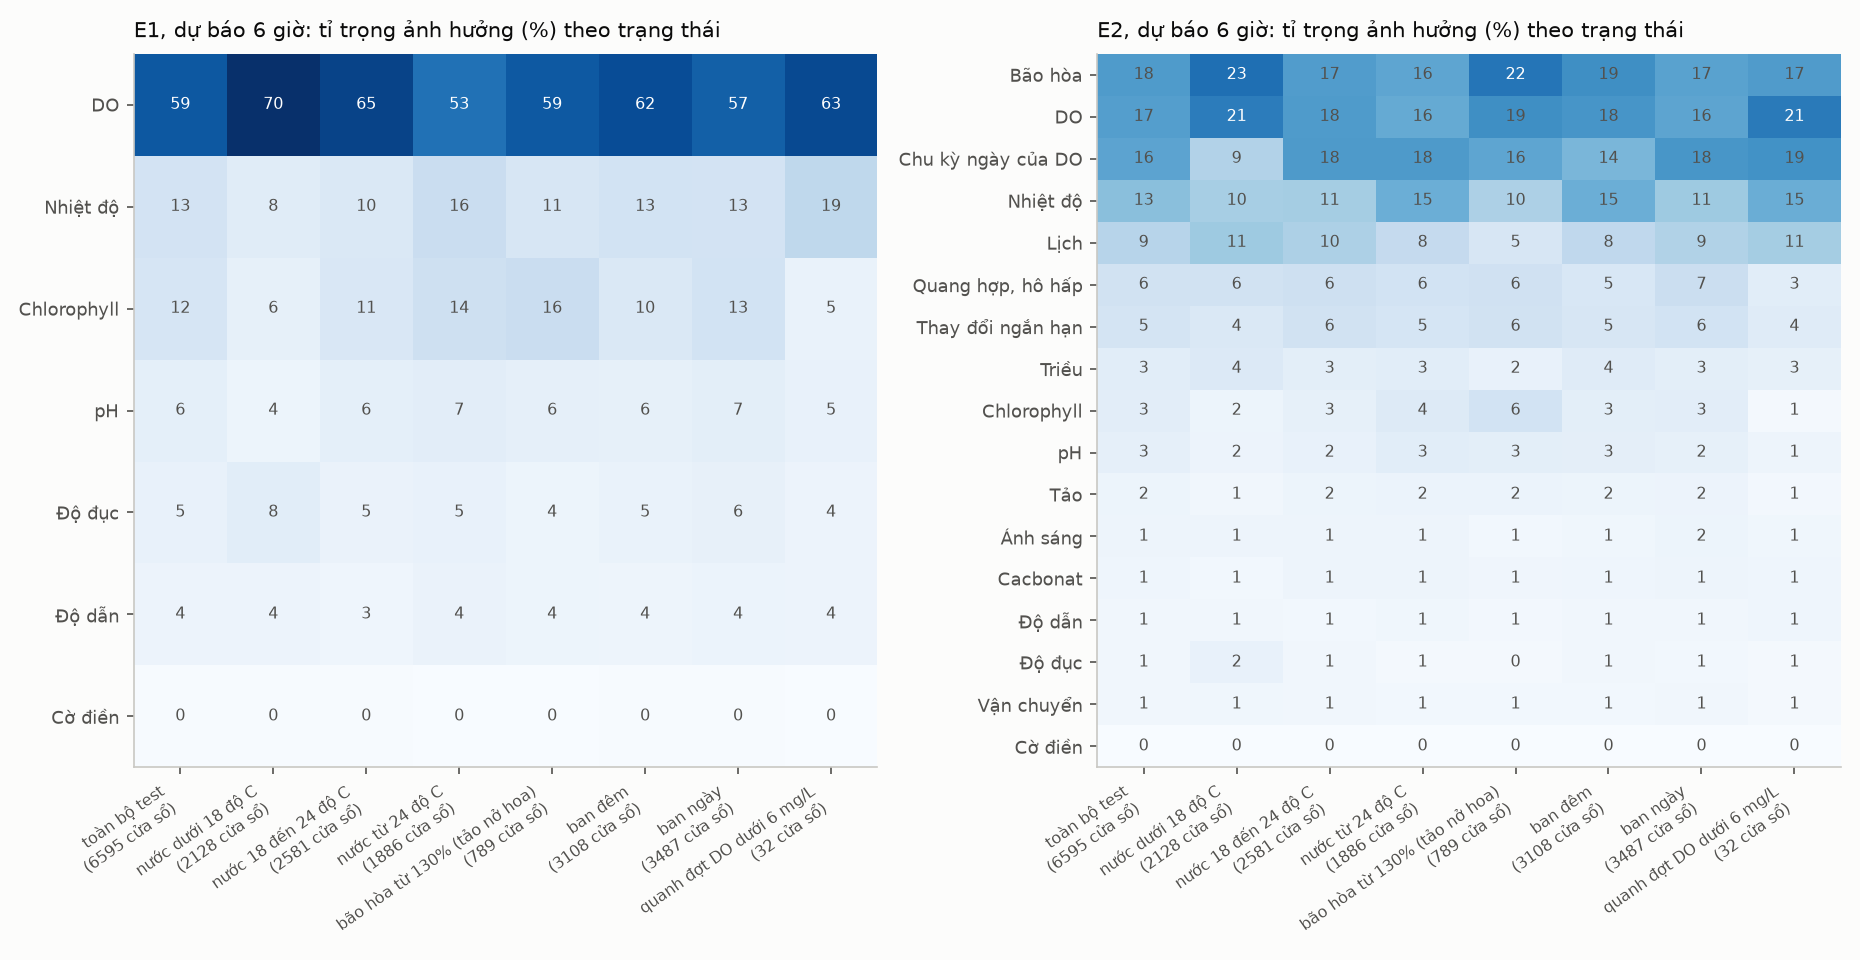
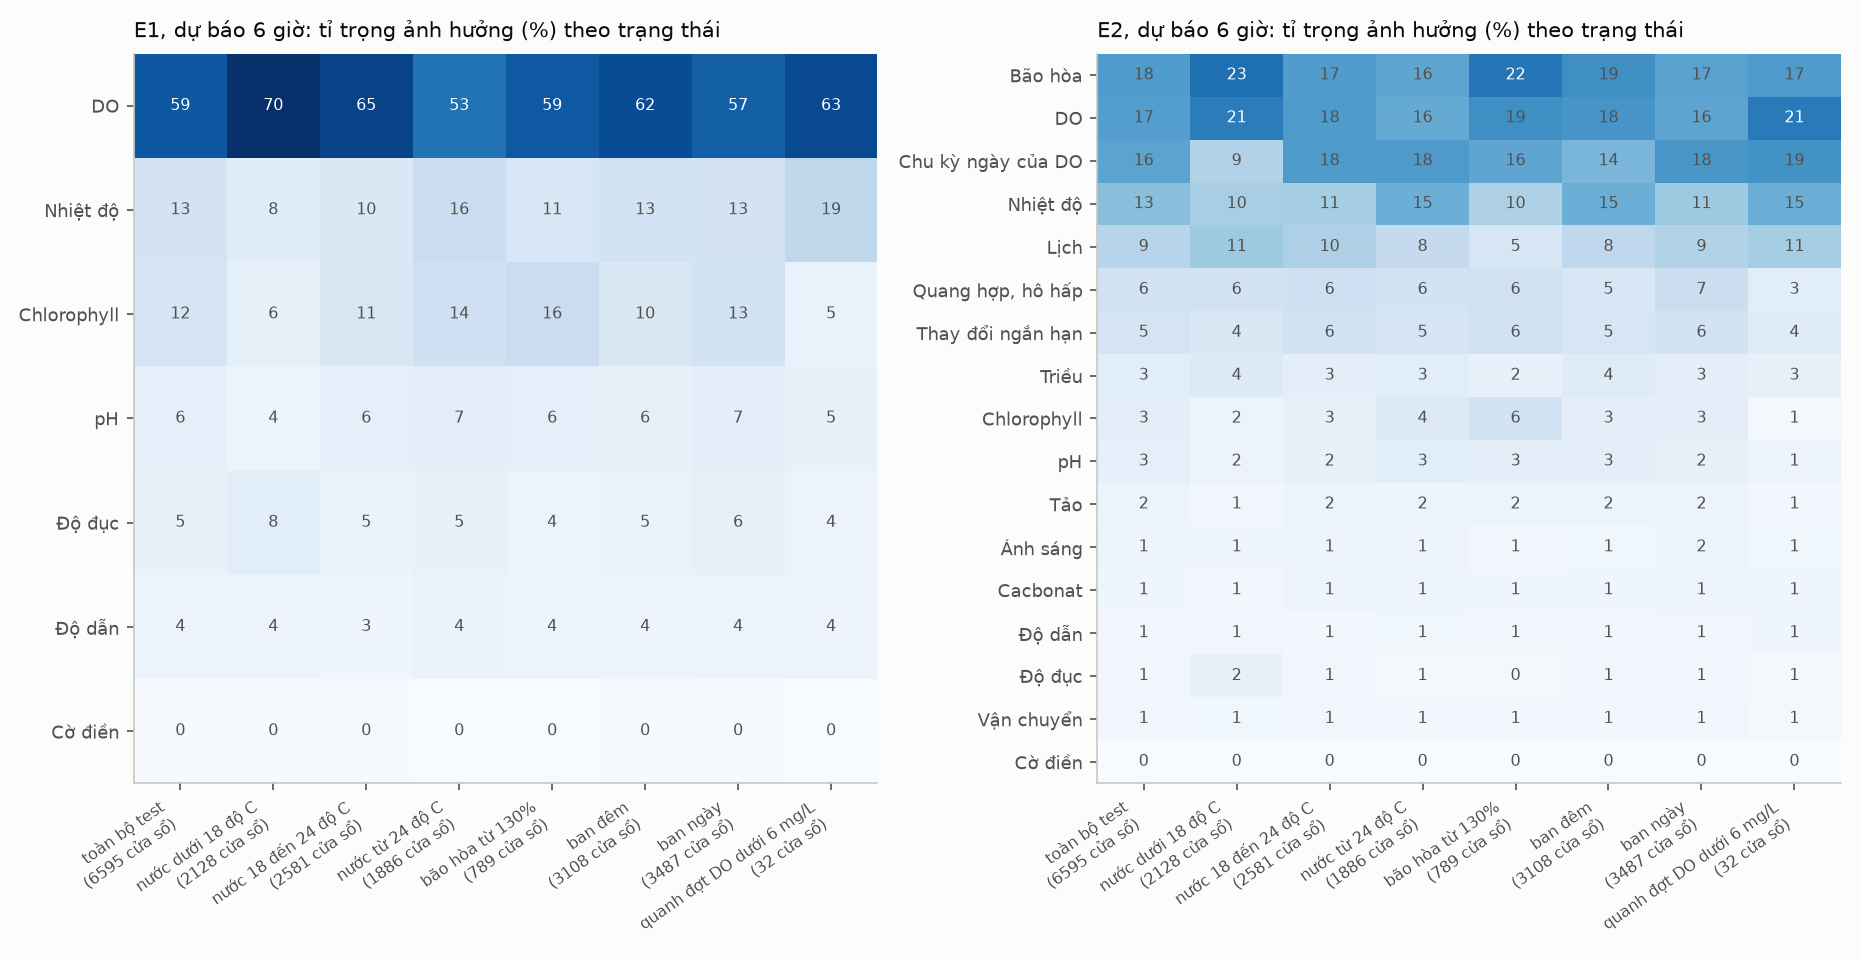
Fix audit findings: E3 inputs, baseline, salinity source, bloom wording
- E3 = E1 inputs plus semantic features, as in the thesis spec (README, 03, 04)
- Persistence "giu nguyen DO" is the simple baseline: overall MAE, RMSE, R2
  in artifacts/analysis/error_baseline.csv, shown in README 4 and 04 7.1, 7.2
- Salinity formula attributed to Schemel (2001): common.salinity split out
  (features bit-identical), salinity_check.csv compares it with USGS eq. 4
- One bloom definition (monthly chl from 20 ug/L); saturation from 130% is no
  longer called bloom, attribution label updated (numbers unchanged)
- Corrected claims: DO in the 2024 bloom week, E1 reliance on chlorophyll,
  baseline comparison at 30 min, temperature offset median 0.29
- Removed the unverified legal DO objective sentence; er_temp_offset.csv now
  written with 6 decimals

diff --git a/scripts/error_analysis.py b/scripts/error_analysis.py
@@ -4,8 +4,9 @@ dùng cho docs/04_MODEL_TRAINING_EVALUATION.md mục 7 và 9.
 Mỗi điểm sai số là một cặp (cửa sổ test, bước dự báo) có DO đo thật (cờ 0). Điều kiện của một cửa sổ là điều kiện
 ở mốc cuối của đầu vào (số đo mới nhất lúc dự báo). Mọi con số là trung bình trên ba seed.
 Ghi vào artifacts/analysis/:
-  error_by_step.csv: MAE theo bước dự báo, kèm mốc tham chiếu "giữ nguyên DO" (bo = giu_nguyen: dự báo mọi bước
-    bằng DO ở mốc cuối của đầu vào), để biết một bước dự báo khó đến đâu.
+  error_by_step.csv: MAE theo bước dự báo, kèm baseline đơn giản "giữ nguyên DO" (bo = giu_nguyen: dự báo mọi bước
+    bằng DO ở mốc cuối của đầu vào).
+  error_baseline.csv: MAE, RMSE, R2 của baseline giữ nguyên DO trên cùng các mốc nhãn DO cờ 0 như các mô hình.
   error_by_month.csv: theo tháng của thời điểm dự báo: chênh lệch DO trong ngày (trung vị), MAE từng bộ.
   error_by_season.csv, error_by_condition.csv: tỉ lệ điểm, MAE và tỉ lệ tổng sai số tuyệt đối theo giai đoạn mùa,
     nhiệt độ nước, phần trăm bão hòa oxy, giờ trong ngày; thay_doi_pct là MAE của bộ so với bộ base.
@@ -23,7 +24,7 @@ import matplotlib.pyplot as plt
 import numpy as np
 import pandas as pd
 
-from common import REPO, do_saturation, load_base_all
+from common import REPO, do_saturation, load_base_all, metrics
 from describe_dataset import episode_spans, season
 from figures import AQUA, BLUE, INK, INK2, ORANGE, RED
 from train import final_dir, iter_runs
@@ -108,11 +109,11 @@ def err_stats(p, y, sel, tag):
 
 
 def fig_steps(steps):
-    """MAE theo bước dự báo của từng bộ đặc trưng và của mốc giữ nguyên DO."""
+    """MAE theo bước dự báo của từng bộ đặc trưng và của baseline giữ nguyên DO."""
     fig, ax = plt.subplots(figsize=(7, 3.6))
     for fs, g in steps.groupby("bo", sort=False):
         if fs == "giu_nguyen":
-            ax.plot(g.phut / 60, g.MAE, color=INK2, lw=1.5, ls="--", label="giữ nguyên DO hiện tại")
+            ax.plot(g.phut / 60, g.MAE, color=INK2, lw=1.5, ls="--", label="baseline: giữ nguyên DO hiện tại")
         else:
             ax.plot(g.phut / 60, g.MAE, color=SETS[fs][1], lw=2, label=SETS[fs][0])
     ax.set_xlabel("bước dự báo (giờ tới)")
@@ -229,6 +230,9 @@ def main():
                           MAE=np.abs(naive - y0[:, k])[m0[:, k]].mean(), MAE_sd=0.0))
     steps = pd.DataFrame(steps)
     steps.round(6).to_csv(os.path.join(OUT, "error_by_step.csv"), index=False)
+    naive_all = np.repeat(naive[:, None], y0.shape[1], axis=1)
+    pd.DataFrame([dict(bo="giu_nguyen", **metrics(naive_all, y0, m0))]).round(6).to_csv(
+        os.path.join(OUT, "error_baseline.csv"), index=False)
     # theo điều kiện
     cond = window_conditions(d, preds["base"][3])
     seas = group_table(preds, cond.season.to_numpy(), ["lanh", "xuan", "nong", "thu"], "mua")

diff --git a/scripts/domain_study.py b/scripts/domain_study.py
@@ -6,6 +6,8 @@ Ghi vào artifacts/dataset/:
   reaeration_k_sensitivity.csv: tương quan của er_now, gpp_now tính với k khác so với bản dùng k đã ước lượng.
   er_temp_offset.csv: chênh lệch giữa nhiệt độ hiện tại và nhiệt độ TB các bước đêm trong 24 giờ qua.
   domain_example.csv: các đại lượng trung gian và 24 đặc trưng của một dòng train (ví dụ tính tay trong tài liệu).
+  salinity_check.csv: độ mặn lớn nhất và chênh lệch DO bão hòa (mg/L) khi thay công thức độ mặn Schemel (2001)
+    bằng phương trình 4 của USGS (2011), trên mọi dòng 2019 đến 2025.
   fig_k_ban_dem.png: các đêm train, trung bình theo nhóm thiếu hụt và đường hồi quy.
 Chạy từ gốc repo (sau build_domain_splits.py): uv run python scripts/domain_study.py
 """
@@ -16,7 +18,7 @@ import numpy as np
 import pandas as pd
 
 from common import (DAY, NIGHT_MIN_STEPS, STATS, do_saturation, domain_features, fit_reaeration, load_base_all,
-                    night_table, oxygen_steps, read_k, solar_elevation_sin)
+                    night_table, oxygen_steps, read_k, salinity, solar_elevation_sin)
 from describe_dataset import season
 
 matplotlib.use("Agg")
@@ -63,7 +65,7 @@ def main():
     T = d["water_temp_c"].to_numpy()
     Tn = S(np.where(night, T, 0)) / np.maximum(n_night, 1)
     off = np.abs(T - Tn)[n_night >= NIGHT_MIN_STEPS]
-    pd.DataFrame([dict(median=np.median(off), p95=np.percentile(off, 95), n=len(off))]).round(3).to_csv(
+    pd.DataFrame([dict(median=np.median(off), p95=np.percentile(off, 95), n=len(off))]).round(6).to_csv(
         os.path.join(STATS, "er_temp_offset.csv"), index=False)
     # 5. dòng ví dụ
     i = int(np.flatnonzero(d["datetime_pst"] == pd.Timestamp(EXAMPLE))[0])
@@ -76,7 +78,14 @@ def main():
               sum_light_x_0_25=np.clip(se[w], 0, None).sum() * 0.25, k=k)
     ex.update({c: base[c][i] for c in base.columns})
     pd.DataFrame([ex]).round(6).to_csv(os.path.join(STATS, "domain_example.csv"), index=False)
-    # 6. hình
+    # 6. độ mặn: công thức Schemel (2001) dùng trong đặc trưng so với phương trình 4 của USGS (2011)
+    spc = d["spc_us_cm"].to_numpy()
+    s_usgs = 5.572e-4 * spc + 2.02e-9 * spc**2
+    gap = np.abs(do_saturation(d["water_temp_c"], spc, s_usgs).to_numpy() - sat)
+    pd.DataFrame([dict(spc_max=spc.max(), sal_schemel_max=salinity(spc).max(), sal_usgs_max=s_usgs.max(),
+                       do_sat_diff_max=gap.max(), do_sat_diff_p99=np.percentile(gap, 99), n=len(gap))]).round(6).to_csv(
+        os.path.join(STATS, "salinity_check.csv"), index=False)
+    # 7. hình
     fig, ax = plt.subplots(figsize=(7, 4.2), dpi=130)
     ax.scatter(D, dd, s=5, alpha=0.25, color="#2a78d6", label="một đêm train")
     bins = pd.cut(nights.D, [-6, -2, -1, 0, 0.5, 1, 1.5, 3])

diff --git a/scripts/attribution.py b/scripts/attribution.py
@@ -12,7 +12,7 @@ Ghi vào artifacts/analysis/:
   attr_by_column.csv, attr_by_group.csv: mức ảnh hưởng = TB trên cửa sổ của |phần góp ròng| (cộng trên 96 mốc,
     cộng trên các cột của nhóm), kèm độ lệch chuẩn giữa seed và tỉ trọng (%), cho bước 15 phút, 3 giờ, 6 giờ.
   attr_by_lag.csv: tỉ trọng ảnh hưởng của từng giờ trong 24 giờ trước lúc dự báo, theo nhóm.
-  attr_by_condition.csv: tỉ trọng nhóm theo trạng thái lúc dự báo: nhiệt độ nước, bão hòa từ 130% (tảo nở hoa),
+  attr_by_condition.csv: tỉ trọng nhóm theo trạng thái lúc dự báo: nhiệt độ nước, bão hòa từ 130%,
     ban đêm, ban ngày, và các cửa sổ quanh đợt DO dưới 6 mg/L.
   attr_pairs.csv: hai nhóm mang thông tin trùng nhau (DO và Bão hòa, Nhiệt độ và Bão hòa): tương quan giữa phần góp
     ròng của hai nhóm qua các cửa sổ, mức ảnh hưởng của từng nhóm và của tổng hai nhóm.
@@ -220,7 +220,7 @@ def write_tables(res, cond, near_low, ex_i, t_explain, n_in):
         # theo điều kiện
         tb = pd.cut(cond.water_temp_c, TEMP_BINS[0], right=False, labels=TEMP_BINS[1]).astype(str).to_numpy()
         sel = ([("toàn bộ test", np.ones(len(tb), bool))] + [(f"nước {b}", tb == b) for b in TEMP_BINS[1]]
-               + [("bão hòa từ 130% (tảo nở hoa)", cond.do_sat_pct.to_numpy() >= 130),
+               + [("bão hòa từ 130%", cond.do_sat_pct.to_numpy() >= 130),
                   ("ban đêm", cond.night.to_numpy()), ("ban ngày", ~cond.night.to_numpy()),
                   ("quanh đợt DO dưới 6 mg/L", near_low)])
         for name, m in sel:

diff --git a/scripts/common.py b/scripts/common.py
@@ -107,15 +107,21 @@ def load_base_all(folder=BASE):
     return pd.concat([load_base_split(n, folder).assign(split=n) for n in NAMES], ignore_index=True)
 
 
-def do_saturation(temp_c, spc_us_cm):
+def salinity(spc_us_cm):
+    """Độ mặn từ độ dẫn quy về 25 độ C (uS/cm), theo công thức rút gọn của Schemel (2001), R = SpC / 53087."""
+    import numpy as np
+    R = np.clip(spc_us_cm, 0, None) / 53087.0
+    return 0.0120 - 0.2174 * R**0.5 + 25.3283 * R + 13.7714 * R**1.5 - 6.4788 * R**2 + 2.5842 * R**2.5
+
+
+def do_saturation(temp_c, spc_us_cm, sal=None):
     """DO bão hòa (mg/L) theo nhiệt độ (độ C) và độ dẫn (uS/cm), áp suất 1 atm.
 
-    Công thức Benson và Krause (1984) theo APHA; độ mặn PSS-78 tính gần đúng từ độ dẫn ở 25 độ C.
+    Công thức Benson và Krause (1984) theo APHA; độ mặn theo salinity (Schemel 2001), hoặc truyền sẵn qua sal.
     """
     import numpy as np
     T = temp_c + 273.15
-    R = np.clip(spc_us_cm, 0, None) / 53087.0
-    sal = 0.0120 - 0.2174 * R**0.5 + 25.3283 * R + 13.7714 * R**1.5 - 6.4788 * R**2 + 2.5842 * R**2.5
+    sal = salinity(spc_us_cm) if sal is None else sal
     lnc = (-139.34411 + 1.575701e5 / T - 6.642308e7 / T**2 + 1.243800e10 / T**3 - 8.621949e11 / T**4
            - sal * (1.7674e-2 - 10.754 / T + 2140.7 / T**2))
     return np.exp(lnc)

diff --git a/scripts/verify_dataset.py b/scripts/verify_dataset.py
@@ -129,7 +129,7 @@ def check_windows(splits):
 
 
 def saturation(t, spc):
-    """DO bão hòa (mg/L), Benson và Krause (1984), độ mặn PSS-78 từ độ dẫn; cùng công thức common.do_saturation."""
+    """DO bão hòa (mg/L), Benson và Krause (1984), độ mặn từ độ dẫn theo Schemel (2001); cùng công thức common.do_saturation."""
     T = t + 273.15
     R = max(spc, 0.0) / 53087.0
     sal = 0.0120 - 0.2174 * R**0.5 + 25.3283 * R + 13.7714 * R**1.5 - 6.4788 * R**2 + 2.5842 * R**2.5

diff --git a/docs/02_DATA_CLEANING.md b/docs/02_DATA_CLEANING.md
@@ -59,7 +59,7 @@ Mỗi ô trống, kể cả ô bị loại ở mục 3, được điền bằng 
 
 Lý do chọn quy tắc này:
 - Khi DO trống thì gần như cả đầu đo ngừng ghi (mục 4.1). Chép lần đo trước đó là chép một lần đo thật của cả sáu biến, nên các biến vẫn khớp nhau như khi đo.
-- Không có tham số, nhân quả, hệ thống web làm y hệt.
+- Không có tham số, nhân quả, hệ thống web sẽ làm y hệt.
 - Ô được điền rất ít (dưới 0.4% số ô, mục 4.3), mô hình biết ô nào là ô điền qua cờ, và không bị tính sai số trên giá trị điền.
 - Dùng chung cho mọi thí nghiệm so sánh (dữ liệu gốc, thêm đặc trưng miền, thêm đặc trưng ngữ nghĩa), nên không làm lệch phép so sánh.
 
@@ -108,7 +108,7 @@ Sai số của một cửa sổ là trung bình trên các mốc nhãn có cờ 
 
 ![Điểm DO đột biến](../artifacts/dataset/fig_dot_bien.png)
 
-- Có 212 điểm (train 63, val 28, test 121), gần như tất cả trong tháng 6 đến 9, lúc tảo nở hoa.
+- Có 212 điểm (train 63, val 28, test 121), gần như tất cả trong mùa nóng (tháng 6 đến 9).
 - Không xác định được điểm nào là lỗi: 136 điểm có nhiệt độ hoặc pH đổi cùng lúc, có thể là một khối nước khác đi qua cảm biến; nhưng một trục trặc làm cả đầu đo lệch theo cũng cho dấu hiệu như vậy.
 - Ảnh hưởng đến DO thấp của test: 8 trên 9 mốc DO dưới 5 mg/L và 17 trên 34 mốc dưới 6 mg/L là điểm đột biến, như mốc 3.73 mg/L ở hình.
 
